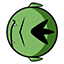
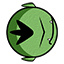
received changes

diff --git a/BallZeroth/src/ballzeroth/main/Enemy.java b/BallZeroth/src/ballzeroth/main/Enemy.java
@@ -1,4 +1,3 @@
-
 package ballzeroth.main;
 
 import java.awt.*;
@@ -11,19 +10,19 @@ public class Enemy extends Rectangle {
 
     private int enemyID; // SpriteIDs.enemyHumanID -- SpriteIDs.enemyOrcID
 
-    private int xPos, 
-                yPos;
-    public int  health,
-                armor;
-    public int  enemySize = 64, 
-                enemySpeed = 0;
-    
-    public int  walkSpeed = 5, 
-                walkFrame = 0, 
-                walkEnemy = 0;
+    private int xPos,
+            yPos;
+    public int health,
+            armor;
+    public int enemySize = 64,
+            enemySpeed = 0;
+
+    public int walkSpeed = 5,
+            walkFrame = 0,
+            walkEnemy = 0;
 
     public int up = 0, down = 1, right = 2, left = 3, direction = right;
-
+    public String[] sprites;
     public boolean inGame = false;
     public boolean isUp = false;
     public boolean isDown = false;
@@ -34,7 +33,7 @@ public class Enemy extends Rectangle {
         // On Spawn
     }
 
-    public void spawn(int enemyID, int health, int armor) {
+    public void spawn(int enemyID, int health, int armor, String[] images) {
         for (int i = 0; i < Screen.map.block.length; i++) {
             if (Screen.map.block[i][0].terrainID == SpriteIDs.roadID) {
                 setBounds(Screen.map.block[i][0].x, Screen.map.block[i][0].y, enemySize, enemySize);
@@ -46,20 +45,12 @@ public class Enemy extends Rectangle {
         this.enemyID = enemyID;
         this.health = health;
         this.armor = armor;
-
+        this.sprites = images;
         inGame = true;
     }
 
     public void physics() {
         if (walkFrame >= walkSpeed) {
-            if (direction == right) {
-                x += 1;
-            } else if (direction == up) {
-                y -= 1;
-            } else if (direction == down) {
-                y += 1;
-            }
-            
             walkEnemy += 1;
 
             if (walkEnemy == Screen.map.blockSize) {
@@ -89,15 +80,12 @@ public class Enemy extends Rectangle {
                     try {
                         if (Screen.map.block[yPos - 1][xPos].terrainID == SpriteIDs.roadID) {
                             direction = up;
-
                         }
                     } catch (Exception e) {
                     }
                 }
                 if (!isLeft) {
-
                     try {
-
                         if (Screen.map.block[yPos][xPos + 1].terrainID == SpriteIDs.roadID) {
                             direction = right;
                         }
@@ -105,21 +93,17 @@ public class Enemy extends Rectangle {
                     }
                 }
                 if (!isRight) {
-
                     try {
-
                         if (Screen.map.block[yPos][xPos - 1].terrainID == SpriteIDs.roadID) {
                             direction = left;
                         }
                     } catch (Exception e) {
                     }
-
                 }
 
                 if (Screen.map.block[yPos][xPos].terrainID == SpriteIDs.endTowerMid) {
-
-                    playerHealth();
-                    enemyDied();
+                    playerHealth(this.armor);
+                    death();
                 }
 
                 isDown = false;
@@ -137,7 +121,15 @@ public class Enemy extends Rectangle {
 
     public void draw(Graphics g) {
         // preciso das imagens para inimigos
-        g.drawImage(Screen.tileset_enemies[0], x, y, width, height, null);
+        if (direction == right) {
+            g.drawImage(Screen.tileset_enemies[3], x, y, width, height, null);
+        } else if (direction == up) {
+            g.drawImage(Screen.tileset_enemies[2], x, y, width, height, null);
+        } else if (direction == down) {
+            g.drawImage(Screen.tileset_enemies[0], x, y, width, height, null);
+        } else if (direction == left) {
+            g.drawImage(Screen.tileset_enemies[1], x, y, width, height, null);
+        }
 
         // Barra de vida
         g.setColor(new Color(200, 0, 0));
@@ -145,26 +137,22 @@ public class Enemy extends Rectangle {
     }
 
     public void loseHealth(int hit) {
-        this.health -= ( hit - this.armor );
+        this.health -= (hit - this.armor);
 
         if (this.health <= 0) {
             this.death();
         }
     }
 
-    public void playerHealth() {
-        Screen.store.healthPoints -= 1;
-    }
-
-    public void enemyDied() {
-        this.inGame = false;
-        this.direction = right;
-        this.walkEnemy = 0;
+    public void playerHealth(int damagePlus) {
+        Screen.store.healthPoints -= (1 + damagePlus);
     }
 
     public void death() {
         Screen.store.goldPoints += 10;
         this.inGame = false;
+        this.direction = right;
+        this.walkEnemy = 0;
     }
 
     public void dealDamage(int hit) {

diff --git a/BallZeroth/src/ballzeroth/main/Screen.java b/BallZeroth/src/ballzeroth/main/Screen.java
@@ -28,10 +28,15 @@ public class Screen extends JPanel implements Runnable {
     public static Point mouse = new Point(0, 0);
 
     public static Enemy[] enemies = new Enemy[100];
-    private int spawnTime = 2000;
+    private int spawnTime = 500;
     private int frames = 0;
+    
+    // Variáveis do inimigo
+    public static int enemyArmor = 1;
+    public static int wave = 1;
 
-    public static int health = 6;
+    // Variáveis para o player
+    public static int health = 20;
     public static int coins = 100;
     public static int kill = 0, killToWin = 0, level = 1;
 
@@ -84,7 +89,9 @@ public class Screen extends JPanel implements Runnable {
             g.fillRect(0, 0, screenWidth, screenHeight);
             g.setColor(new Color(255, 255, 255));
             g.setFont(new Font("Times New Roman", Font.BOLD, 14));
-            g.drawString("PELA HORDA, ZUGZUG", screenWidth/2, screenHeight/2);
+            g.drawString("PELA HOOOOOORDA!!!!!!", (screenWidth/2) - 80, screenHeight/2);
+            g.drawString("ZUGZUG", (screenWidth/2) - 80, (screenHeight/2) + 20);
+            
         }
     }
 
@@ -123,8 +130,8 @@ public class Screen extends JPanel implements Runnable {
             tileset_res[0] = new ImageIcon(SpriteIDs.buttonDIR).getImage();
             tileset_res[1] = new ImageIcon(SpriteIDs.hearthDIR).getImage();
             tileset_res[2] = new ImageIcon(SpriteIDs.coinDIR).getImage();
-
-            tileset_enemies[0] = new ImageIcon(SpriteIDs.enemyDIR).getImage();
+            System.out.println("sprite " + SpriteIDs.orcsEnemys[3]);
+            tileset_enemies[0] = new ImageIcon(SpriteIDs.orcsEnemys[3]).getImage();
 
             for (int i = 0; i < enemies.length; i++) {
                 enemies[i] = new Enemy();
@@ -139,9 +146,17 @@ public class Screen extends JPanel implements Runnable {
     public void enemySpawner() {
         // Tempo para spawnar um inimigo.
         if (frames >= spawnTime) {
-            for (int i = 0; i < enemies.length; i++) {
-                if (!enemies[i].inGame) {
-                    enemies[i].spawn(i, 64, 1);
+            // Waves
+            System.out.println("Wave: " + (this.wave / 20));
+            System.out.println("Armor: " + this.enemyArmor);
+            for (int j = 0; j < enemies.length; j++) {
+                if (!enemies[j].inGame) {
+                    if ((this.wave % 20) == 0)
+                        this.enemyArmor++;
+                    
+                    enemies[j].spawn(j, 64, this.enemyArmor, SpriteIDs.orcsEnemys);
+                    
+                    this.wave++;
                     break;
                 }
             }
@@ -155,11 +170,15 @@ public class Screen extends JPanel implements Runnable {
     }
 
     public void run() {
+        // Game Loop
         while (running) {
-
             if (!start) {
-
+                // Verifica a classe physics de cada elemento dentro do mapa.
+                // Elementos: 
+                //    Blocks - Se o inimigo estiver em range, ataca.
                 map.physics();
+                
+                // Constroi e renderiza os inimigos
                 enemySpawner();
 
                 for (int i = 0; i < enemies.length; i++) {
@@ -169,6 +188,7 @@ public class Screen extends JPanel implements Runnable {
                 }
             }
 
+            // Atualiza todas as sprites
             repaint();
 
             try {

diff --git a/BallZeroth/src/ballzeroth/main/Block.java b/BallZeroth/src/ballzeroth/main/Block.java
@@ -51,18 +51,22 @@ public class Block extends Rectangle {
             // Melhorar ao construir uma lista que utiliza:
             // towers.contains(this.terrainID)
             if (this.terrainID == SpriteIDs.humanTowerOneID
-                    || this.terrainID == SpriteIDs.humanTowerTwoID
-                    || this.terrainID == SpriteIDs.humanTowerThreeID
-                    || this.terrainID == SpriteIDs.orcTowerOneID
-                    || this.terrainID == SpriteIDs.orcTowerTwoID
-                    || this.terrainID == SpriteIDs.orcTowerThreeID) {
+                || this.terrainID == SpriteIDs.humanTowerTwoID
+                || this.terrainID == SpriteIDs.humanTowerThreeID
+                || this.terrainID == SpriteIDs.orcTowerOneID
+                || this.terrainID == SpriteIDs.orcTowerTwoID
+                || this.terrainID == SpriteIDs.orcTowerThreeID) {
                 // Verifica todos os inimigos ao entrarem na zona do retangulo da torre
                 for (int i = 0; i < Screen.enemies.length; i++) {
                     Enemy aux = Screen.enemies[i]; // FIX: Test first and last enemy on range
+                    
                     if (aux.inGame && this.towerRange.intersects(aux)) {
                         this.shooting = true;
-                        this.enemy = aux;
+                        //if (this.enemy != null && this.enemy.health > aux.health) {
+                            this.enemy = aux;
+                        //}
                     }
+                    
                 }
             }
         }
@@ -92,7 +96,6 @@ public class Block extends Rectangle {
                 Screen.coins += coinReward;
                 this.shooting = false;
                 this.enemy = null;
-
             }
         }
 

diff --git a/BallZeroth/src/ballzeroth/AEstrela/Node.java b/BallZeroth/src/ballzeroth/AEstrela/Node.java
@@ -6,7 +6,7 @@ import java.awt.Graphics;
 
 public class Node extends Rectangle {
 
-    /**
+        /**
 	 * id do terreno ao ser renderizado
          *      0 == grama
          *      1 == pedra
